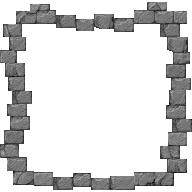
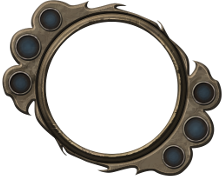
Better looking minimap

diff --git a/RuneScapeSolo.Gui/GuiElements/GuiMinimap.cs b/RuneScapeSolo.Gui/GuiElements/GuiMinimap.cs
@@ -19,7 +19,7 @@ namespace RuneScapeSolo.Gui.GuiElements
     {
         GameClient client;
 
-        Color[] mask;
+        byte[,] alphaMask;
 
         Sprite mobDot;
         Sprite pixel;
@@ -39,8 +39,20 @@ namespace RuneScapeSolo.Gui.GuiElements
             frame = new Sprite { ContentFile = "Interface/Minimap/frame" };
 
             Texture2D maskTexture = ResourceManager.Instance.LoadTexture2D("Interface/Minimap/mask");
-            mask = new Color[maskTexture.Width * maskTexture.Height];
-            maskTexture.GetData(mask, 0, mask.Length);
+            Color[] maskBits = new Color[maskTexture.Width * maskTexture.Height];
+            maskTexture.GetData(maskBits, 0, maskBits.Length);
+
+            alphaMask = new byte[Size.Width, Size.Height];
+
+            for (int y = 0; y < Size.Height; y++)
+            {
+                for (int x = 0; x < Size.Width; x++)
+                {
+                    int i = x + y * Size.Width;
+
+                    alphaMask[x, y] = maskBits[i].R;
+                }
+            }
 
             mobDot.LoadContent();
             pixel.LoadContent();
@@ -159,14 +171,11 @@ namespace RuneScapeSolo.Gui.GuiElements
             {
                 for (int x = 0; x < Size.Width; x++)
                 {
-                    Colour tileColour = Colour.Green;
+                    Colour tileColour = Colour.Black;
+                    int alpha = tileColour.A - 255 + alphaMask[x, y];
 
                     pixel.Location = new Point2D(Location.X + x, Location.Y + y);
-                    pixel.Tint = Color.FromNonPremultiplied(
-                        tileColour.R,
-                        tileColour.G,
-                        tileColour.B,
-                        tileColour.A - 255 + mask[x + y * Size.Width].R).ToColour();
+                    pixel.Tint = Color.FromNonPremultiplied(tileColour.R, tileColour.G, tileColour.B, alpha).ToColour();
 
                     pixel.Draw(spriteBatch);
                 }
@@ -175,14 +184,14 @@ namespace RuneScapeSolo.Gui.GuiElements
 
         void DrawMinimapObject(SpriteBatch spriteBatch, int x, int y, Colour colour)
         {
-            if (x < ClientRectangle.Left || x > ClientRectangle.Right ||
-                y < ClientRectangle.Top || y > ClientRectangle.Bottom)
+            if (x < ClientRectangle.Left || x >= ClientRectangle.Right ||
+                y < ClientRectangle.Top || y >= ClientRectangle.Bottom)
             {
                 return;
             }
 
             mobDot.Tint = colour;
-            mobDot.Opacity = (mask[x + y * Size.Width].R / 255);
+            mobDot.Opacity = alphaMask[x - Location.X, y - Location.Y];
             mobDot.Location = new Point2D(
                 x - mobDot.SpriteSize.Width / 2,
                 y - mobDot.SpriteSize.Height / 2);

diff --git a/RuneScapeSolo.Gui/GuiElements/GuiSideBar.cs b/RuneScapeSolo.Gui/GuiElements/GuiSideBar.cs
@@ -28,7 +28,7 @@ namespace RuneScapeSolo.Gui.GuiElements
                 ContentFile = "Interface/Backgrounds/sidebar",
                 TextureLayout = TextureLayout.Tile
             };
-            minimap = new GuiMinimap { Size = new Size2D(192, 192) };
+            minimap = new GuiMinimap { Size = new Size2D(224, 176) };
 
             combatButton = new GuiButton
             {
@@ -99,7 +99,7 @@ namespace RuneScapeSolo.Gui.GuiElements
             background.Location = Location;
             background.Size = Size;
 
-            minimap.Location = new Point2D(Location.X + (Size.Width - minimap.Size.Width) / 2, Location.Y + 8); // TODO: Replace magic number 8 with spacing const
+            minimap.Location = new Point2D(Location.X, Location.Y);
 
             combatButton.Location = new Point2D(Location.X, ClientRectangle.Bottom - GameDefines.GUI_TILE_SIZE * 8);
             skillsButton.Location = new Point2D(combatButton.ClientRectangle.Right, ClientRectangle.Bottom - GameDefines.GUI_TILE_SIZE * 8);
